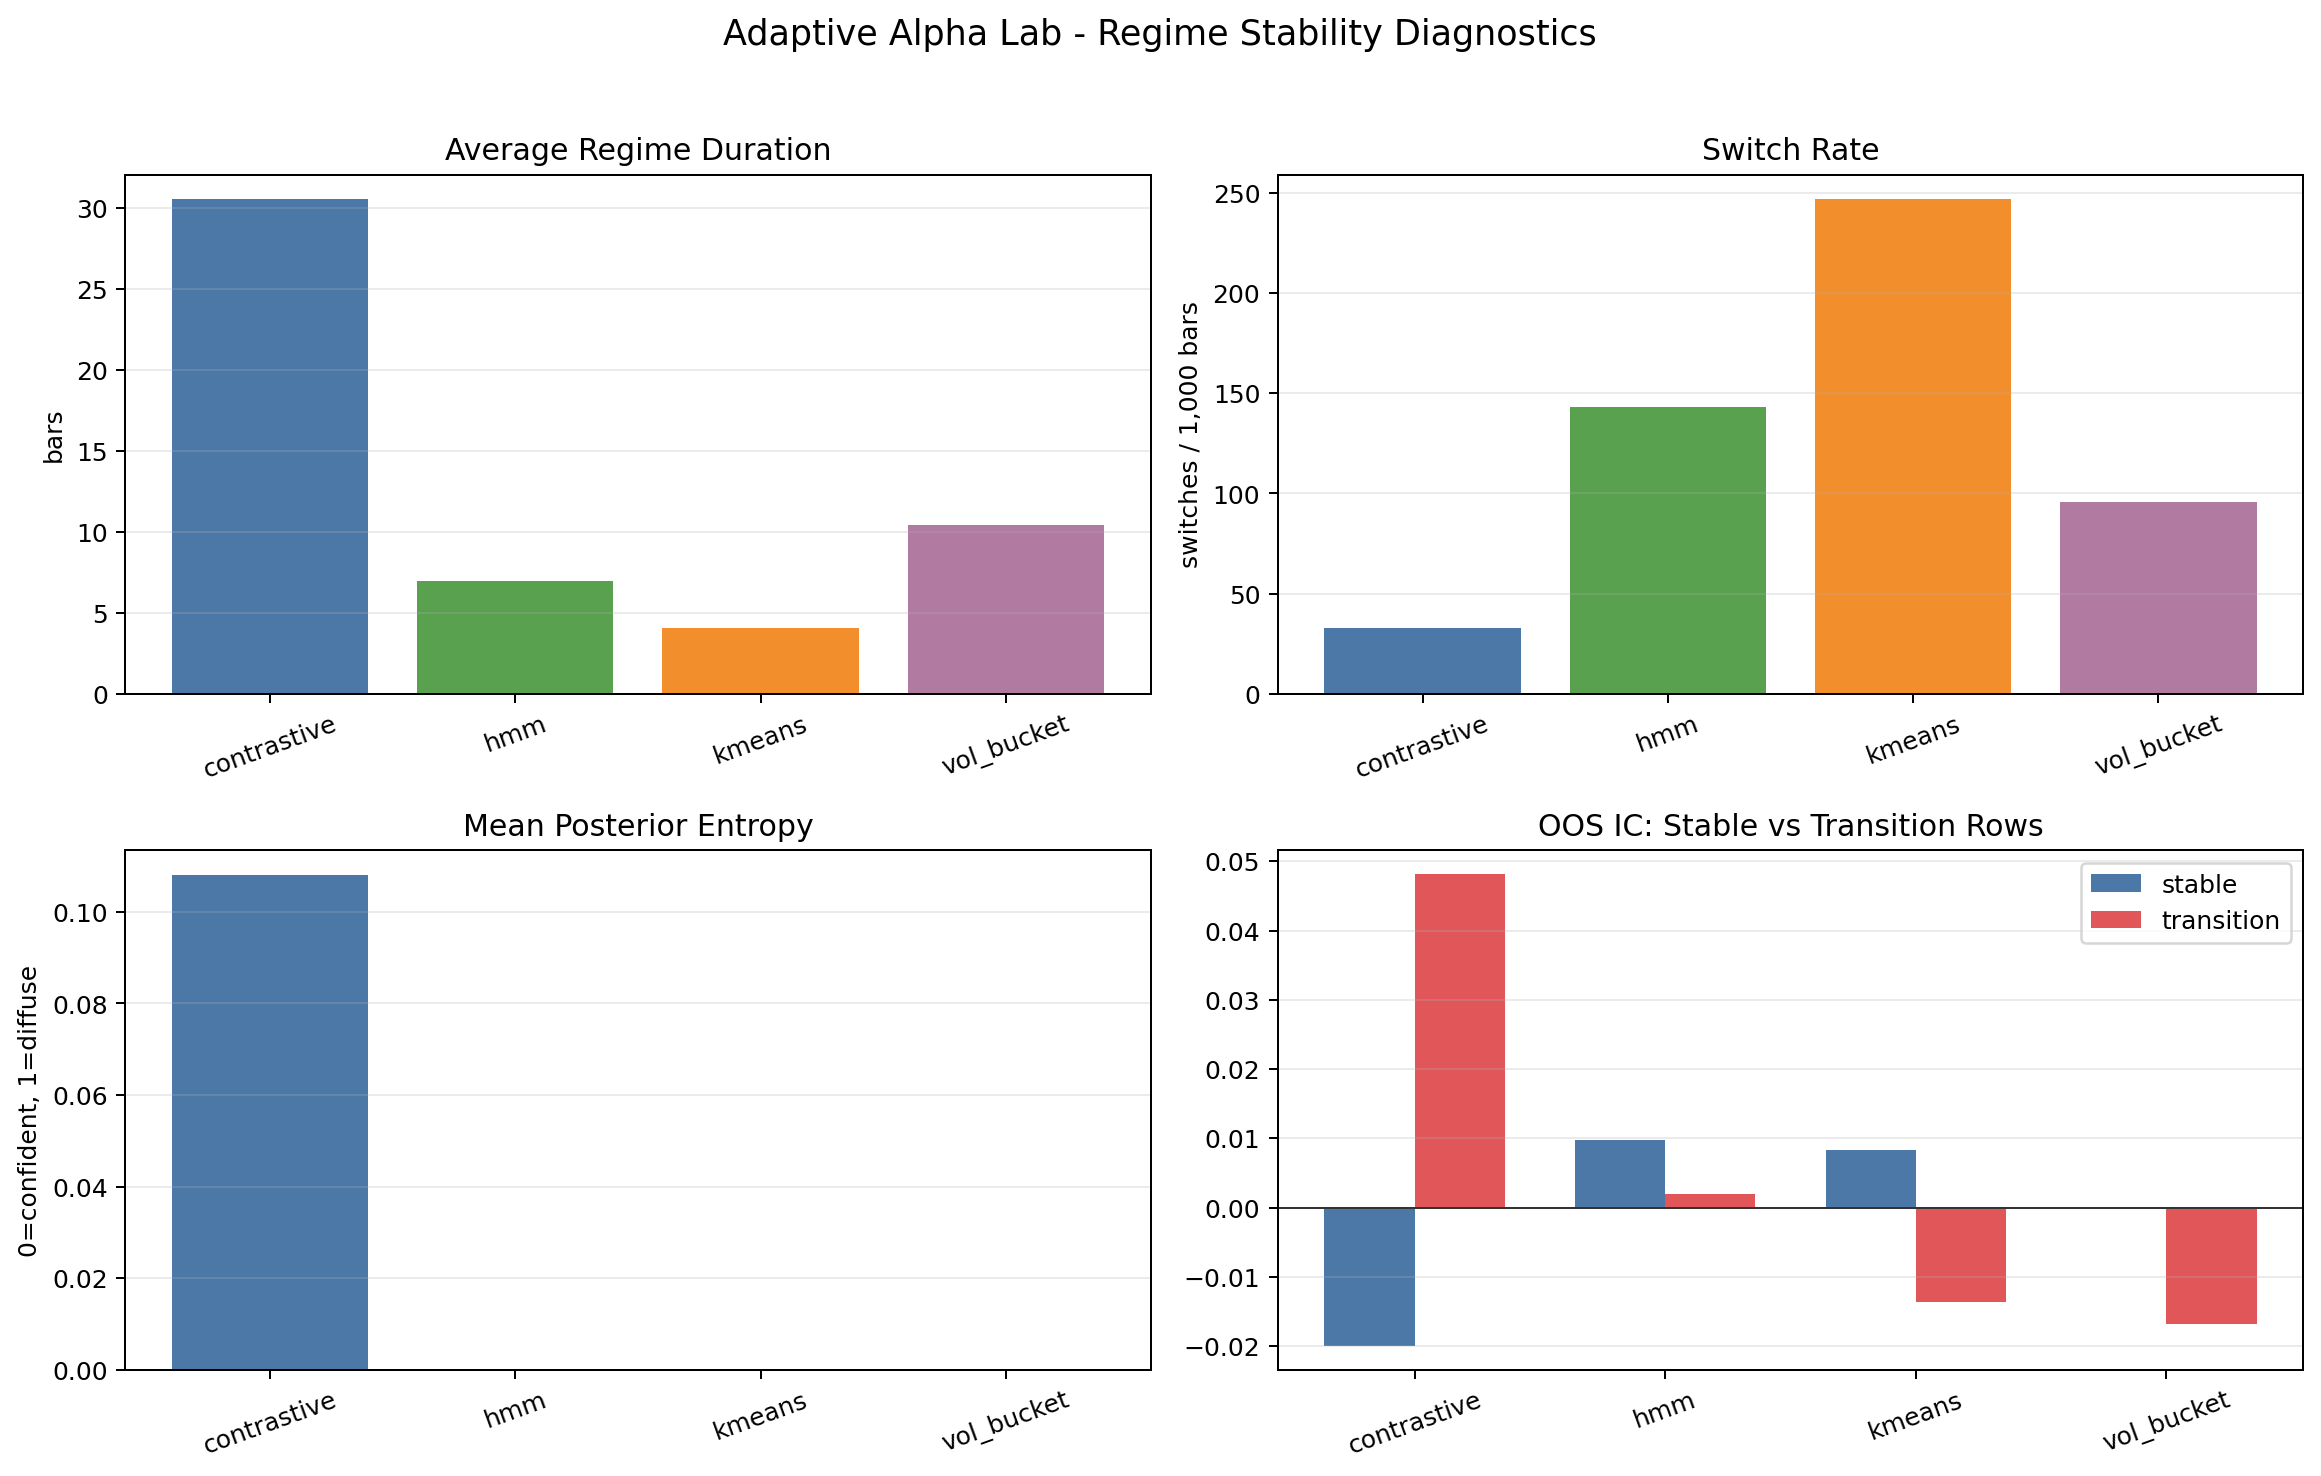
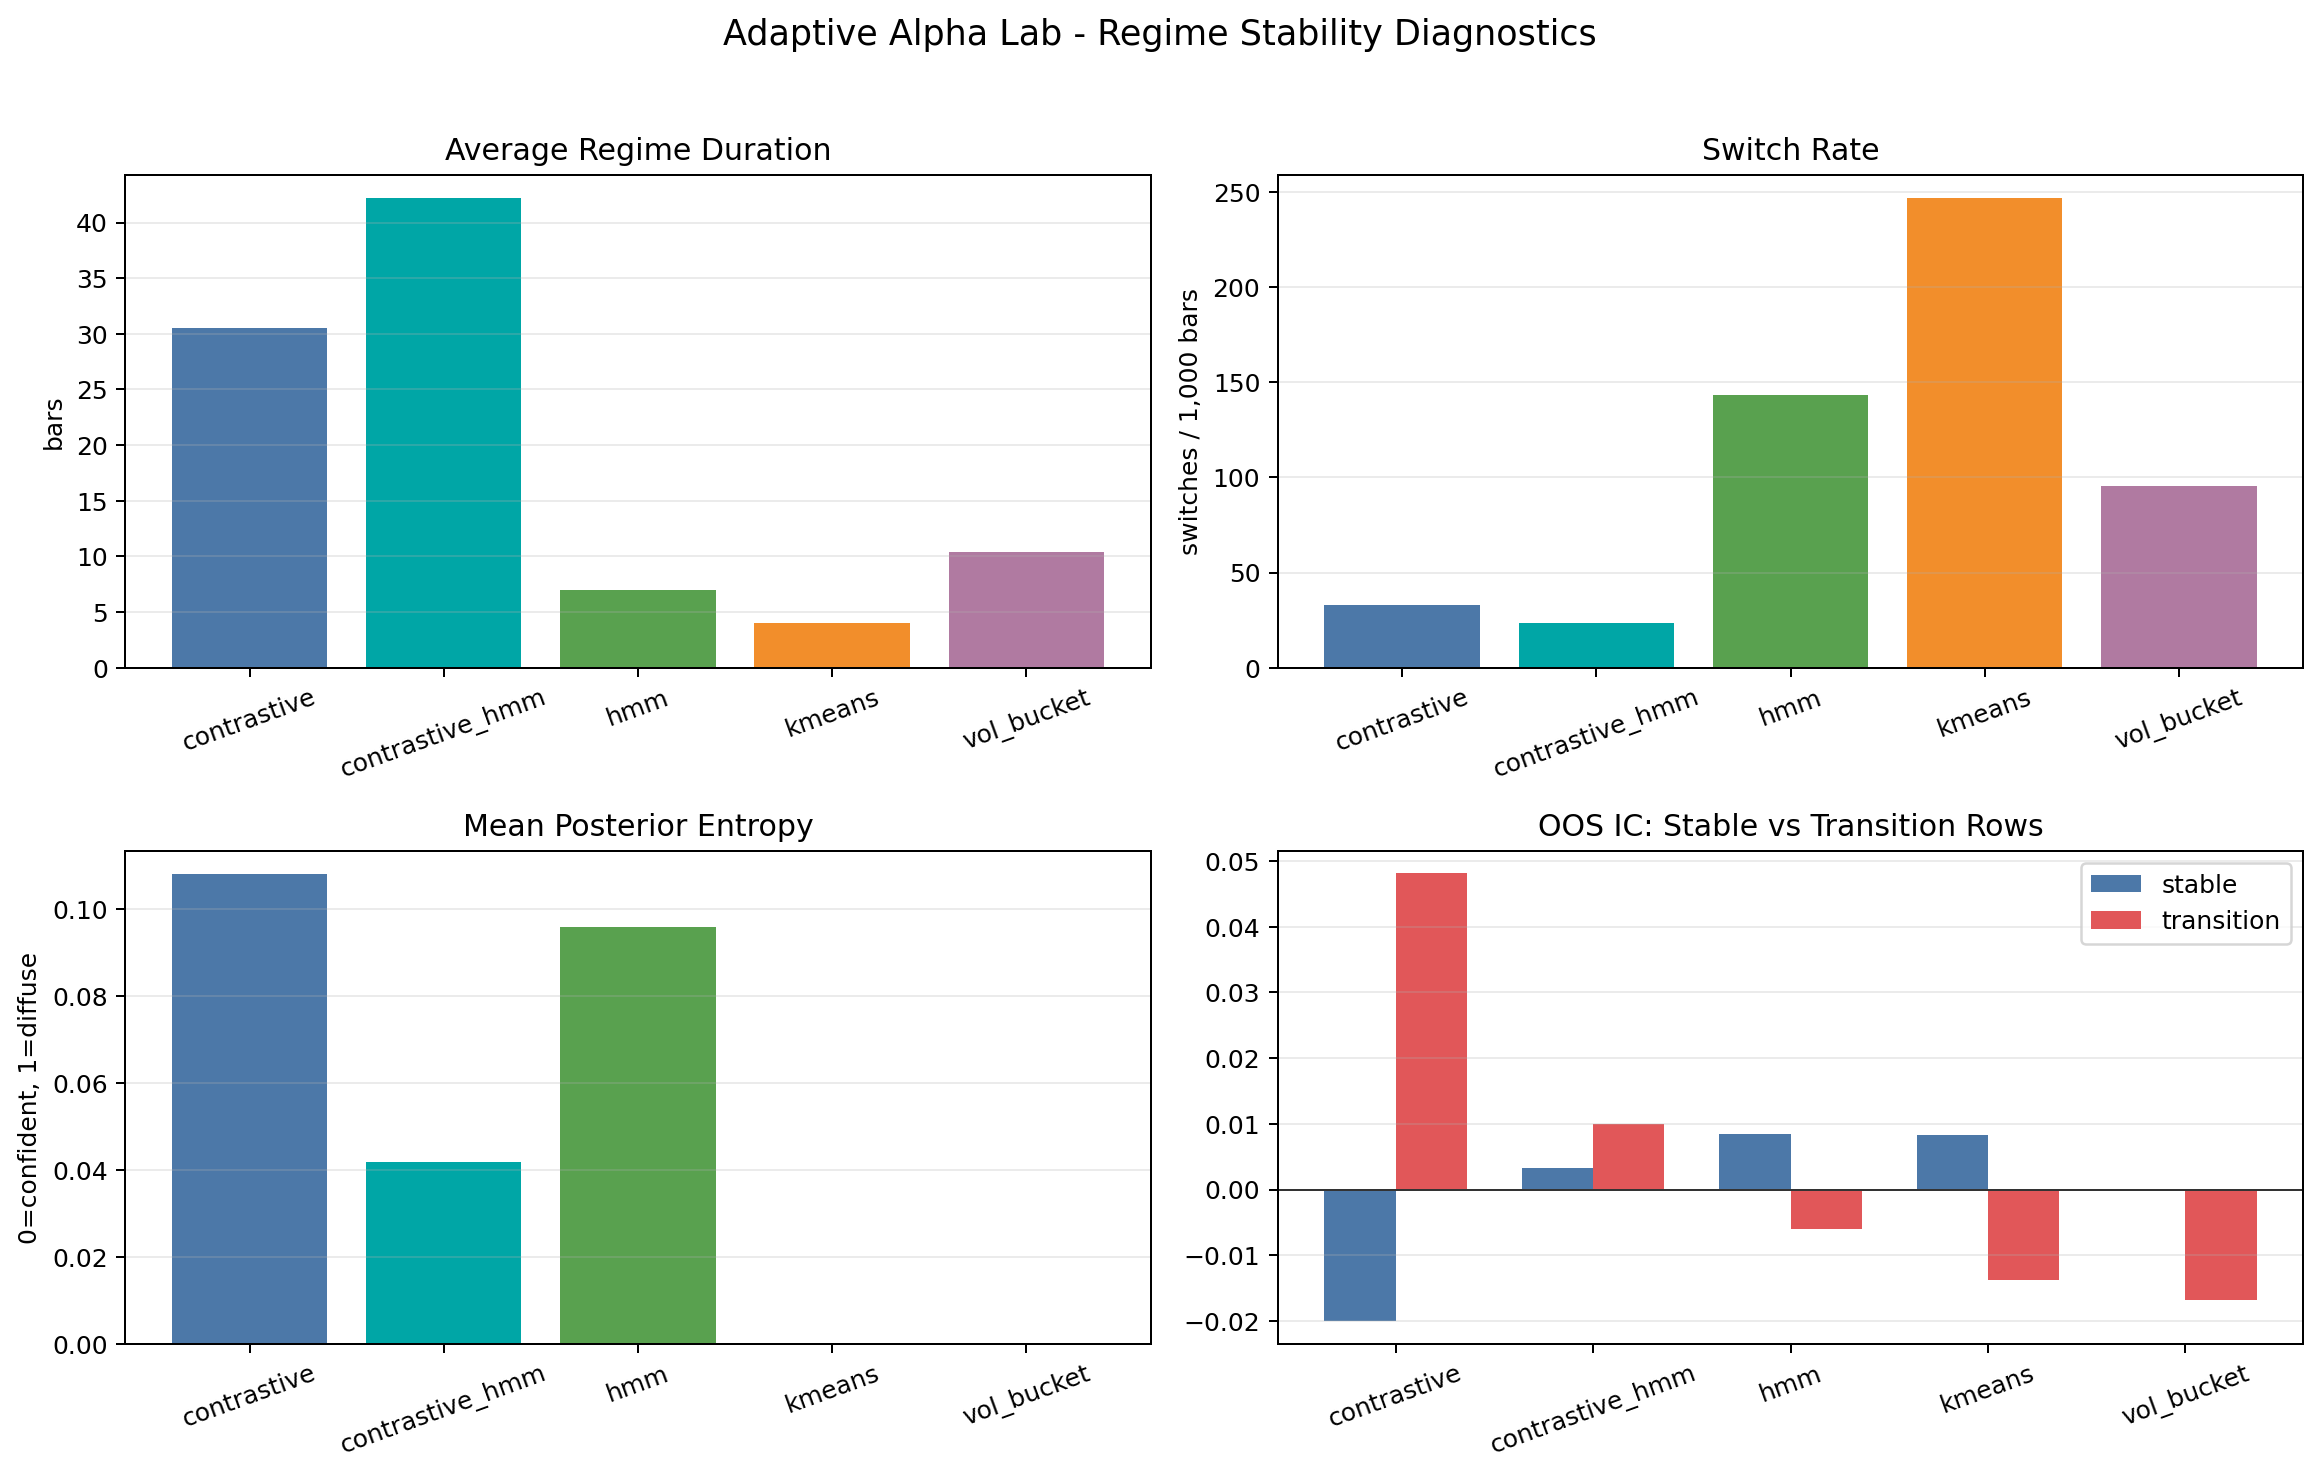
feat(phase-11): add contrastive-HMM hybrid regimes

diff --git a/src/baselines.py b/src/baselines.py
@@ -19,6 +19,7 @@ HMM_FEATURES = ["ret_1h", "vol_20h", "volume_zscore", "spread_proxy", "rsi_14"]
 RANDOM_STATE = 42
 POST_COLS = [f"post_{k}" for k in range(N_REGIMES)]
 ASSIGNMENT_COLS = ["method", "symbol", "open_time", "feat_idx", "regime"] + POST_COLS
+METHOD_ORDER = ["contrastive", "contrastive_hmm", "hmm", "kmeans", "vol_bucket"]
 
 
 @dataclass
@@ -75,6 +76,15 @@ def one_hot_posts(labels: np.ndarray) -> pd.DataFrame:
     return pd.DataFrame({f"post_{k}": (labels == k).astype(float) for k in range(N_REGIMES)})
 
 
+def probability_posts(probs: np.ndarray) -> pd.DataFrame:
+    posts = np.zeros((len(probs), N_REGIMES), dtype=float)
+    cols = min(probs.shape[1], N_REGIMES)
+    posts[:, :cols] = probs[:, :cols]
+    row_sum = posts.sum(axis=1, keepdims=True)
+    posts = np.divide(posts, row_sum, out=np.full_like(posts, 1.0 / N_REGIMES), where=row_sum != 0)
+    return pd.DataFrame({f"post_{k}": posts[:, k] for k in range(N_REGIMES)})
+
+
 def load_contrastive(df: pd.DataFrame) -> RegimeOutput:
     path = os.path.join(SAVE_DIR, "regime_posteriors.csv")
     if not os.path.exists(path):
@@ -110,6 +120,50 @@ def load_contrastive(df: pd.DataFrame) -> RegimeOutput:
     )
 
 
+def fit_contrastive_hmm(contrastive: RegimeOutput) -> RegimeOutput:
+    assignments = contrastive.assignments.sort_values(["symbol", "open_time"]).reset_index(drop=True)
+    x = StandardScaler().fit_transform(contrastive.feature_matrix)
+    lengths = assignments.groupby("symbol", sort=False).size().astype(int).tolist()
+    implementation = "contrastive_embedding_hmm"
+
+    try:
+        from hmmlearn.hmm import GaussianHMM
+
+        model = GaussianHMM(
+            n_components=N_REGIMES,
+            covariance_type="diag",
+            n_iter=250,
+            random_state=RANDOM_STATE,
+            min_covar=1e-4,
+        )
+        model.fit(x, lengths)
+        labels = model.predict(x, lengths).astype(int)
+        posts = probability_posts(model.predict_proba(x, lengths))
+    except Exception as exc:
+        implementation = "contrastive_embedding_gmm_fallback"
+        print(f"NOTE: contrastive-HMM failed ({exc}). Using embedding GaussianMixture fallback.")
+        model = GaussianMixture(
+            n_components=N_REGIMES,
+            covariance_type="full",
+            n_init=10,
+            random_state=RANDOM_STATE,
+        )
+        labels = model.fit_predict(x).astype(int)
+        posts = probability_posts(model.predict_proba(x))
+
+    hybrid = assignments[["symbol", "open_time", "feat_idx"]].copy()
+    hybrid["method"] = "contrastive_hmm"
+    hybrid["regime"] = labels
+    hybrid = pd.concat([hybrid, posts], axis=1)
+    return RegimeOutput(
+        "contrastive_hmm",
+        hybrid[ASSIGNMENT_COLS],
+        x,
+        labels,
+        implementation,
+    )
+
+
 def fit_hmm_like(df: pd.DataFrame) -> RegimeOutput:
     df = df.sort_values(["symbol", "open_time"]).reset_index(drop=True)
     x = scaled_matrix(df, HMM_FEATURES)
@@ -127,6 +181,7 @@ def fit_hmm_like(df: pd.DataFrame) -> RegimeOutput:
         )
         model.fit(x, lengths)
         labels = model.predict(x, lengths)
+        posts = probability_posts(model.predict_proba(x, lengths))
     except Exception as exc:
         implementation = "gmm_fallback"
         print(f"NOTE: hmmlearn unavailable or failed ({exc}). Using GaussianMixture fallback.")
@@ -137,11 +192,12 @@ def fit_hmm_like(df: pd.DataFrame) -> RegimeOutput:
             random_state=RANDOM_STATE,
         )
         labels = model.fit_predict(x)
+        posts = probability_posts(model.predict_proba(x))
 
     assignments = df[["symbol", "open_time", "feat_idx"]].copy()
     assignments["method"] = "hmm"
     assignments["regime"] = labels.astype(int)
-    assignments = pd.concat([assignments, one_hot_posts(labels)], axis=1)
+    assignments = pd.concat([assignments, posts], axis=1)
     return RegimeOutput("hmm", assignments[ASSIGNMENT_COLS], x, labels, implementation)
 
 
@@ -331,8 +387,10 @@ def main() -> None:
     args = parser.parse_args()
 
     df = load_research_frame(args.symbols)
+    contrastive = load_contrastive(df)
     outputs = [
-        load_contrastive(df),
+        contrastive,
+        fit_contrastive_hmm(contrastive),
         fit_hmm_like(df),
         fit_kmeans(df),
         fit_vol_buckets(df),
@@ -346,6 +404,8 @@ def main() -> None:
     assignments.to_csv(os.path.join(SAVE_DIR, "regime_assignments.csv"), index=False)
 
     summary = pd.DataFrame([summarize_method(o) for o in outputs])
+    summary["method"] = pd.Categorical(summary["method"], METHOD_ORDER, ordered=True)
+    summary = summary.sort_values("method").astype({"method": str})
     summary.to_csv(os.path.join(SAVE_DIR, "regime_benchmark_summary.csv"), index=False)
 
     stats = per_regime_stats(df, assignments)

diff --git a/dashboard.py b/dashboard.py
@@ -28,11 +28,10 @@ def main() -> None:
         "baselines, purged validation, and transaction-cost-aware evaluation."
     )
     st.info(
-        "Key finding: in the current BTC+ETH benchmark, the true Gaussian HMM "
-        "beats dense contrastive-GMM regimes on IC and Sharpe. The stability "
-        "diagnostics show that persistence alone is not enough; the useful "
-        "state structure from the HMM is more alpha-relevant than embedding "
-        "capacity by itself."
+        "Key finding: contrastive-HMM improves the learned-regime path, "
+        "but the raw-feature Gaussian HMM still leads on IC and Sharpe. "
+        "The current evidence says HMM-style temporal state structure helps "
+        "learned embeddings, while representation capacity alone is not enough."
     )
 
     results = read_csv("experiment_results.csv")
@@ -81,8 +80,9 @@ def main() -> None:
         st.subheader("Per-Regime Statistics")
         st.dataframe(per_regime, width="stretch")
         st.subheader("Transition Matrices")
-        matrix_cols = st.columns(4)
-        for col, method in zip(matrix_cols, ["contrastive", "hmm", "kmeans", "vol_bucket"]):
+        matrix_methods = ["contrastive", "contrastive_hmm", "hmm", "kmeans", "vol_bucket"]
+        matrix_cols = st.columns(len(matrix_methods))
+        for col, method in zip(matrix_cols, matrix_methods):
             path = MODELS_DIR / f"transition_matrix_{method}.png"
             with col:
                 st.caption(method)

diff --git a/src/alpha_models.py b/src/alpha_models.py
@@ -10,7 +10,7 @@ import numpy as np
 import pandas as pd
 from sklearn.metrics import accuracy_score, balanced_accuracy_score
 
-from config import DB_PATH, FEATURE_COLS, SAVE_DIR, SYMBOLS
+from config import DB_PATH, FEATURE_COLS, N_REGIMES, SAVE_DIR, SYMBOLS
 
 
 warnings.filterwarnings("ignore", message="X does not have valid feature names")
@@ -24,10 +24,10 @@ EMBARGO = 24 * 5
 SCORE_THRESHOLD = 0.05
 TC_PER_TRADE = 0.001
 RANDOM_STATE = 42
-REGIME_METHODS = ["contrastive", "hmm", "kmeans", "vol_bucket"]
+REGIME_METHODS = ["contrastive", "contrastive_hmm", "hmm", "kmeans", "vol_bucket"]
 LABEL_TO_CLASS = {-1: 0, 0: 1, 1: 2}
 CLASS_TO_LABEL = {v: k for k, v in LABEL_TO_CLASS.items()}
-POST_COLS = [f"post_{k}" for k in range(4)]
+POST_COLS = [f"post_{k}" for k in range(N_REGIMES)]
 
 
 @dataclass

diff --git a/src/regime_stability.py b/src/regime_stability.py
@@ -10,7 +10,7 @@ from config import N_REGIMES, SAVE_DIR, SYMBOLS
 
 PRIMARY_TARGET = "tb_label_8h"
 POST_COLS = [f"post_{i}" for i in range(N_REGIMES)]
-METHOD_ORDER = ["contrastive", "hmm", "kmeans", "vol_bucket"]
+METHOD_ORDER = ["contrastive", "contrastive_hmm", "hmm", "kmeans", "vol_bucket"]
 
 
 def parse_args() -> argparse.Namespace:
@@ -224,7 +224,7 @@ def plot_stability(summary: pd.DataFrame, output_path: Path) -> None:
 
     fig, axes = plt.subplots(2, 2, figsize=(13, 8))
     methods = aggregate["method"].astype(str).to_list()
-    colors = ["#4C78A8", "#59A14F", "#F28E2B", "#B07AA1"]
+    colors = ["#4C78A8", "#00A6A6", "#59A14F", "#F28E2B", "#B07AA1"]
 
     axes[0, 0].bar(methods, aggregate["avg_regime_duration"], color=colors)
     axes[0, 0].set_title("Average Regime Duration")

diff --git a/reports/adaptive_alpha_lab_report.md b/reports/adaptive_alpha_lab_report.md
@@ -25,11 +25,14 @@ The benchmark compares four regime methods on a common BTC+ETH universe:
 | Method | Implementation | Rows | Silhouette | Avg Duration |
 |---|---|---:|---:|---:|
 | contrastive | contrastive encoder + GMM | 34,754 | 0.0959 | 30.51 |
+| contrastive_hmm | contrastive embeddings + HMM | 34,754 | 0.1016 | 42.18 |
 | hmm | hmmlearn Gaussian HMM | 34,754 | 0.0790 | 6.98 |
 | kmeans | sklearn KMeans | 34,754 | 0.0967 | 4.05 |
 | vol_bucket | realized-volatility quantiles | 34,754 | -0.0393 | 10.44 |
 
 The contrastive method now uses dense stride-1 inference for every valid feature row after the 60-bar encoder window. This fixes the earlier sparse-coverage issue and makes downstream alpha comparisons fair.
+
+Phase 11 adds a contrastive-HMM hybrid. Instead of clustering learned embeddings with GMM only, it fits a Gaussian HMM directly on the learned contrastive embedding sequence. This tests whether the weakness in contrastive regimes comes from representation learning itself or from the lack of temporal state dynamics in the assignment layer.
 
 ## Regime Stability Diagnostics
 
@@ -38,11 +41,12 @@ Phase 10 adds explicit stability diagnostics to separate regime persistence from
 | Method | Switches / 1k Bars | Avg Duration | Transition Diagonal | Stable IC | Transition IC |
 |---|---:|---:|---:|---:|---:|
 | contrastive | 32.72 | 30.51 | 0.967 | -0.0200 | 0.0482 |
-| hmm | 143.24 | 6.98 | 0.857 | 0.0098 | 0.0020 |
+| contrastive_hmm | 23.65 | 42.18 | 0.976 | 0.0033 | 0.0100 |
+| hmm | 143.24 | 6.98 | 0.857 | 0.0084 | -0.0061 |
 | kmeans | 246.60 | 4.05 | 0.753 | 0.0083 | -0.0137 |
 | vol_bucket | 95.71 | 10.44 | 0.904 | 0.0001 | -0.0168 |
 
-The important finding is not simply that more stable regimes are better. Contrastive-GMM produces the longest-lived regimes, but those regimes have negative IC during stable periods. The HMM switches more frequently, yet its stable-period IC is the strongest among the tested regime-aware methods. This suggests that alpha-relevant state structure matters more than persistence alone.
+The important finding is not simply that more stable regimes are better. Contrastive-HMM produces the longest-lived regimes and repairs the negative stable-period IC seen in contrastive-GMM. However, the raw-feature HMM still has the strongest stable-period IC. This suggests that HMM-style temporal structure helps learned embeddings, but the current embedding space is still not as alpha-aligned as the simpler raw-feature HMM state space.
 
 ## Validation Setup
 
@@ -62,7 +66,8 @@ The global baseline trains one LightGBM model across both symbols. Regime-aware 
 |---|---:|---:|---:|---:|---:|---:|---:|
 | global_lgbm | 0.0024 | 0.5736 | 0.3625 | -0.506 | -0.688 | 0.050 | -0.557 |
 | regime_lgbm_contrastive | -0.0165 | 0.5616 | 0.3724 | -0.902 | -0.909 | 0.077 | -0.855 |
-| regime_lgbm_hmm | 0.0079 | 0.5608 | 0.3742 | -0.182 | -0.829 | 0.085 | -0.403 |
+| regime_lgbm_contrastive_hmm | 0.0035 | 0.5585 | 0.3720 | -0.382 | -0.852 | 0.079 | -0.588 |
+| regime_lgbm_hmm | 0.0051 | 0.5622 | 0.3727 | -0.229 | -0.825 | 0.081 | -0.446 |
 | regime_lgbm_kmeans | -0.0013 | 0.5647 | 0.3670 | -1.180 | -0.920 | 0.079 | -0.912 |
 | regime_lgbm_vol_bucket | -0.0030 | 0.5566 | 0.3670 | -0.988 | -0.896 | 0.083 | -0.872 |
 
@@ -70,9 +75,11 @@ All methods are evaluated on 25,920 out-of-sample rows. This equal test coverage
 
 ## Results Interpretation
 
-The real Gaussian HMM baseline produces the strongest IC in this run, improving from 0.0024 for the global baseline to 0.0079. It also has the least negative Sharpe among the tested methods, although drawdown remains large and total return remains negative after transaction costs.
+The real Gaussian HMM baseline produces the strongest IC in this run, improving from 0.0024 for the global baseline to 0.0051. It also has the least negative Sharpe among the tested methods, although drawdown remains large and total return remains negative after transaction costs.
 
-The honest conclusion is mixed: regime awareness changes ranking behavior and risk characteristics, but the current learned contrastive regimes do not beat the classical HMM baseline on the primary out-of-sample alpha metrics. The new stability diagnostics make this more precise: contrastive regimes are persistent but not alpha-aligned, while HMM regimes are less persistent but more useful during stable periods. This is still a useful research result because it separates representation learning, regime diagnostics, and deployable alpha instead of overclaiming profitability.
+The honest conclusion is mixed but stronger than before. The contrastive-HMM hybrid improves the learned-regime path substantially: IC moves from -0.0165 to 0.0035, and Sharpe improves from -0.902 to -0.382. That validates the Phase 11 hypothesis that temporal state dynamics help learned embeddings. However, the raw-feature HMM still beats the hybrid on IC and Sharpe, so the current learned representation is not yet superior to the simpler classical state model.
+
+This is still a useful research result because it separates representation learning, regime diagnostics, and deployable alpha instead of overclaiming profitability. The project now has a clear scientific progression: dense contrastive regimes underperform, stability diagnostics identify the assignment-layer weakness, and contrastive-HMM partially fixes it.
 
 ## Limitations
 
@@ -83,8 +90,8 @@ The honest conclusion is mixed: regime awareness changes ranking behavior and ri
 
 ## Next Steps
 
-1. Test a contrastive-HMM hybrid that fits an HMM on learned embeddings.
-2. Add a validation audit that explicitly checks embargo gaps and feature/target leakage.
-3. Run robustness checks across thresholds, costs, horizons, and symbol splits.
+1. Add a validation audit that explicitly checks embargo gaps and feature/target leakage.
+2. Run robustness checks across thresholds, costs, horizons, and symbol splits.
+3. Improve the learned encoder objective and retest the contrastive-HMM hybrid.
 4. Add feature importance and SHAP summaries for global and regime-aware LightGBM models.
 5. Tune score thresholds to separate predictive IC from executable turnover.

diff --git a/README.md b/README.md
@@ -6,9 +6,9 @@
 
 ## Key Finding
 
-The strongest current result is not that learned regimes beat every baseline. They do not. The true Gaussian HMM baseline outperforms dense contrastive-GMM regimes on IC and Sharpe in the latest BTC+ETH run.
+The strongest current result is not that learned regimes beat every baseline. They do not. The true Gaussian HMM baseline remains the best IC and Sharpe method in the latest BTC+ETH run.
 
-That makes the project more interesting: the stability diagnostics show that persistence alone is not enough. Contrastive-GMM regimes are smoother and longer-lived, but the HMM states are more alpha-relevant out of sample. The next research hypothesis is to combine both ideas with a contrastive-HMM hybrid: learned embeddings for representation, HMM state dynamics for temporal structure.
+Phase 11 tested the natural research response: fit an HMM on learned contrastive embeddings. The contrastive-HMM hybrid improves the learned-regime path from `IC=-0.0165` to `IC=0.0035` and from `Sharpe=-0.902` to `Sharpe=-0.382`, but it still does not beat the raw-feature HMM. That is the current project insight: HMM-style temporal state structure helps learned embeddings, but representation learning alone is not yet enough.
 
 ## Research Question
 
@@ -16,6 +16,7 @@ Does learning market regimes from raw financial time-series features improve alp
 
 - a global model with no regime awareness
 - Gaussian HMM regimes
+- contrastive-HMM hybrid regimes
 - KMeans regimes
 - volatility-bucket regimes
 
@@ -28,7 +29,7 @@ Binance OHLCV
     -> DuckDB feature store
     -> 22 engineered market/microstructure features
     -> Multi-horizon financial labels and triple-barrier targets
-    -> Contrastive temporal regime encoder + classical baselines
+    -> Contrastive temporal regime encoder + contrastive-HMM hybrid + classical baselines
     -> Global and regime-conditioned LightGBM models
     -> Purged walk-forward validation with transaction costs
     -> Research dashboard and report artifacts
@@ -43,6 +44,7 @@ Binance OHLCV
 - Multi-horizon targets: 4h, 8h, and 24h.
 - Triple-barrier labels with neutral class.
 - Regime baselines: contrastive, Gaussian HMM, KMeans, volatility buckets.
+- Contrastive-HMM hybrid regimes fitted on learned embeddings.
 - Regime stability diagnostics: switch rate, duration, transition entropy, and stable-vs-transition IC.
 - Global LightGBM baseline and regime-conditioned LightGBM models.
 - 5-day embargoed walk-forward validation.
@@ -142,15 +144,16 @@ Latest run: BTCUSDT + ETHUSDT, `tb_label_8h`, 25,920 out-of-sample rows per meth
 |---|---:|---:|---:|---|
 | global_lgbm | 0.0024 | -0.506 | -0.688 | no-regime baseline |
 | regime_lgbm_contrastive | -0.0165 | -0.902 | -0.909 | learned-regime benchmark |
-| regime_lgbm_hmm | 0.0079 | -0.182 | -0.829 | best IC and Sharpe; true hmmlearn HMM |
+| regime_lgbm_contrastive_hmm | 0.0035 | -0.382 | -0.852 | learned embeddings with HMM state dynamics |
+| regime_lgbm_hmm | 0.0051 | -0.229 | -0.825 | best IC and Sharpe; true hmmlearn HMM |
 | regime_lgbm_kmeans | -0.0013 | -1.180 | -0.920 | classical clustering baseline |
 | regime_lgbm_vol_bucket | -0.0030 | -0.988 | -0.896 | simple volatility baseline |
 
-The current result is intentionally presented as research evidence, not a profitable trading claim. The true HMM baseline is strongest in this run, while learned contrastive regimes remain an important benchmark for testing whether representation learning can beat classical regime discovery.
+The current result is intentionally presented as research evidence, not a profitable trading claim. The true HMM baseline is strongest in this run, while the contrastive-HMM hybrid shows that adding temporal state dynamics substantially improves the learned-regime approach.
 
-The main interpretation is that dense contrastive inference fixed the earlier coverage problem, but unconstrained GMM clustering over high-density embeddings appears misaligned with the alpha target. The HMM has shorter regimes than contrastive-GMM, but its state dynamics currently produce the best downstream IC and Sharpe. This suggests useful temporal state structure matters more than embedding capacity or persistence alone.
+The main interpretation is that dense contrastive inference fixed the earlier coverage problem, but unconstrained GMM clustering over high-density embeddings appears misaligned with the alpha target. HMM smoothing on embeddings repairs much of that weakness, but raw-feature HMM still produces the best downstream IC and Sharpe. This suggests useful temporal state structure matters more than embedding capacity or persistence alone.
 
 ## Current Status
 
-The codebase now produces the full benchmark artifact set and a Streamlit research dashboard. The next important work is not live trading; it is measuring regime stability more deeply, testing a contrastive-HMM hybrid, adding a validation audit, and running robustness studies.
+The codebase now produces the full benchmark artifact set and a Streamlit research dashboard. The next important work is not live trading; it is adding a validation audit, running robustness studies, and testing whether better learned embeddings can close the remaining gap against the raw-feature HMM.
 